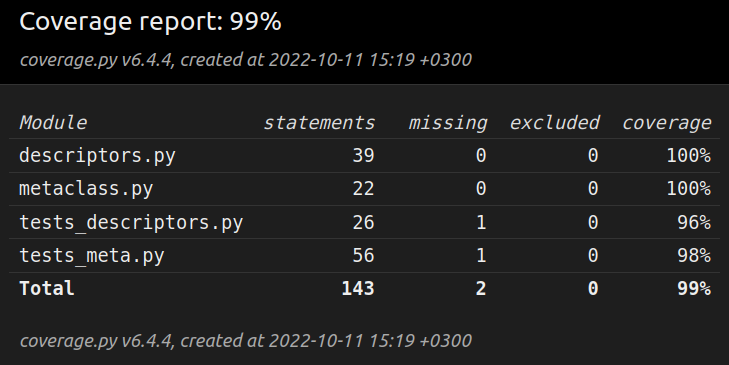
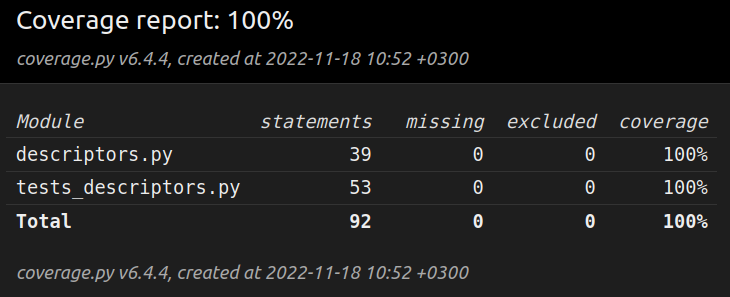
Update HW4

diff --git a/04/tests_meta.py b/04/tests_meta.py
@@ -5,84 +5,62 @@ from metaclass import CustomClass
 
 class TestCustomClass(unittest.TestCase):
 
-    def test_right_class_var(self):
+    def test_class_var(self):
 
         self.assertTrue(hasattr(CustomClass, 'custom_x'))
-
-    def test_false_class_var(self):
-
         self.assertFalse(hasattr(CustomClass, 'x'))
 
-    def test_right_inst_class_var(self):
+    def test_class_var_value(self):
+
+        self.assertEqual(CustomClass.custom_x, 50)
+
+    def test_inst_class_var(self):
 
         inst = CustomClass()
         self.assertTrue(hasattr(inst, 'custom_x'))
-
-    def test_false_inst_class_var(self):
-
-        inst = CustomClass()
-        self.assertFalse(hasattr(inst, 'x'))
-
-    def test_right_inst_class_init_val(self):
-
-        inst = CustomClass()
         self.assertTrue(hasattr(inst, 'custom_val'))
+        self.assertFalse(hasattr(inst, 'x'))
+        self.assertFalse(hasattr(inst, 'val'))
 
-    def test_false_inst_class_init_val(self):
+    def test_inst_class_var_value(self):
+
+        inst = CustomClass(45)
+        self.assertEqual(inst.custom_x, 50)
+        self.assertEqual(inst.custom_val, 45)
+
+    def test_class_method(self):
 
         inst = CustomClass()
-        self.assertFalse(hasattr(inst, 'val'))
+        self.assertTrue(hasattr(inst, 'custom_line'))
+        self.assertFalse(hasattr(inst, 'line'))
 
     def test_right_class_method_val(self):
 
         inst = CustomClass()
         self.assertTrue(inst.custom_line(), 100)
 
-    def test_right_class_method(self):
-
-        inst = CustomClass()
-        self.assertTrue(hasattr(inst, 'custom_line'))
-
-    def test_false_class_method(self):
-
-        inst = CustomClass()
-        self.assertFalse(hasattr(inst, 'line'))
-
     def test_right_class_magic_method_val(self):
 
         inst = CustomClass()
         self.assertTrue(str(inst), "Custom_by_metaclass")
 
-    def test_right_class_magic_method(self):
+    def test_class_magic_methods(self):
 
         inst = CustomClass()
         self.assertTrue(hasattr(inst, '__str__'))
-
-    def test_false_class_magic_method(self):
-
-        inst = CustomClass()
         self.assertFalse(hasattr(inst, 'custom___str__'))
 
-    def test_right_class_dynamic_var(self):
+    def test_class_dynamic_var(self):
 
         inst = CustomClass()
         inst.dynamic = "added later"
         self.assertTrue(hasattr(inst, 'custom_dynamic'))
-
-    def test_false_class_dynamic_var(self):
-
-        inst = CustomClass()
-        inst.dynamic = "added later"
         self.assertFalse(hasattr(inst, 'dynamic'))
 
-    def test_right_class_fake_magic_method(self):
+    def test_class_fake_magic_method(self):
 
         inst = CustomClass()
         self.assertTrue(hasattr(inst, 'custom_static_line__'))
-
-    def test_false_class_fake_magic_method(self):
-
-        inst = CustomClass()
         self.assertFalse(hasattr(inst, 'static_line__'))
 
     def test_false_class_fake_magic_method_val(self):

diff --git a/04/tests_descriptors.py b/04/tests_descriptors.py
@@ -38,6 +38,51 @@ class TestDescriptors(unittest.TestCase):
         with self.assertRaises(Exception):
             Data(5, 'kek', -10)
 
+    def test_new_bad_num(self):
+
+        data = Data(100, 'abc', 1)
+        with self.assertRaises(Exception):
+            data.num = 'a'
+
+        self.assertEqual(data.num, 100)
+
+    def test_new_good_num(self):
+
+        data = Data(100, 'abc', 1)
+        data.num = 42
+
+        self.assertEqual(data.num, 42)
+
+    def test_new_bad_name(self):
+
+        data = Data(100, 'abc', 1)
+        with self.assertRaises(Exception):
+            data.name = 42
+
+        self.assertEqual(data.name, 'abc')
+
+    def test_new_good_name(self):
+
+        data = Data(100, 'abc', 1)
+        data.name = 'zxy'
+
+        self.assertEqual(data.name, 'zxy')
+
+    def test_new_bad_price(self):
+
+        data = Data(100, 'abc', 1)
+        with self.assertRaises(Exception):
+            data.price = -3
+
+        self.assertEqual(data.price, 1)
+
+    def test_new_good_price(self):
+
+        data = Data(100, 'abc', 1)
+        data.price = 5
+
+        self.assertEqual(data.price, 5)
+
 
 if __name__ == "__main__":
 

diff --git a/04/metaclass.py b/04/metaclass.py
@@ -10,7 +10,7 @@ class CustomMeta(type):
     def __new__(cls, name, bases, classdict):
         custom_class_dict = {}
         for method, val in classdict.items():
-            if not method.startswith('__'):
+            if not (method.startswith('__') and method.endswith('__')):
                 custom_class_dict["custom_" + method] = val
             else:
                 custom_class_dict[method] = val
